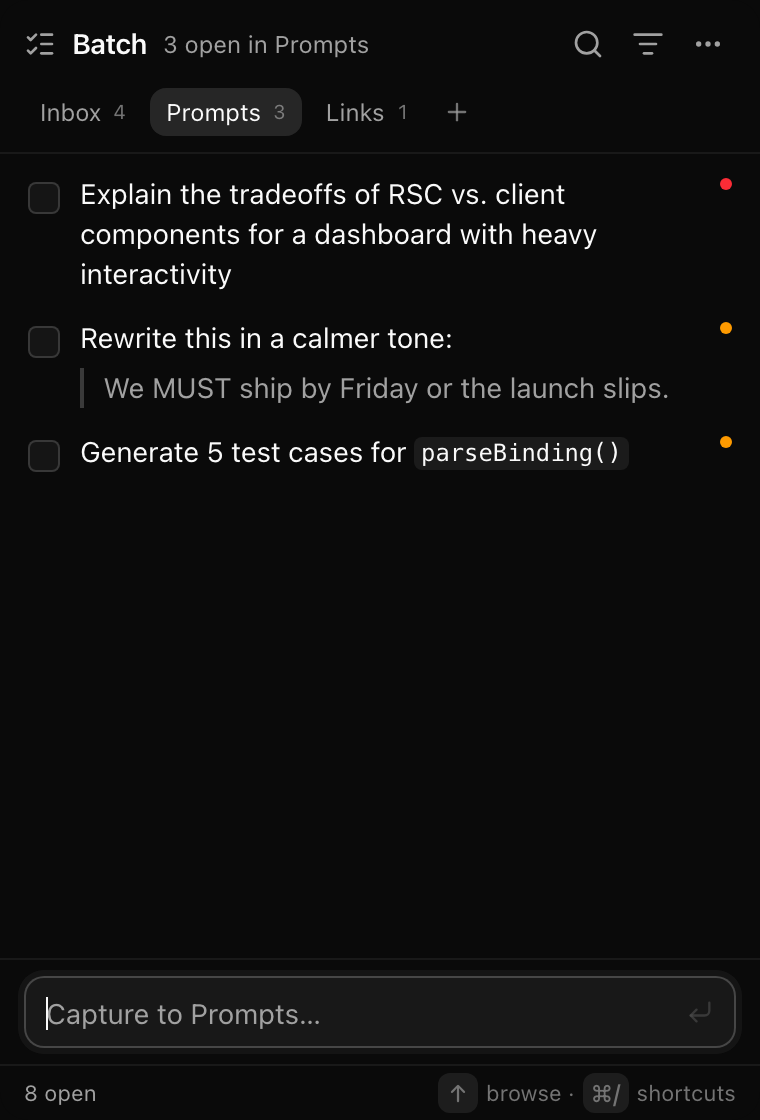
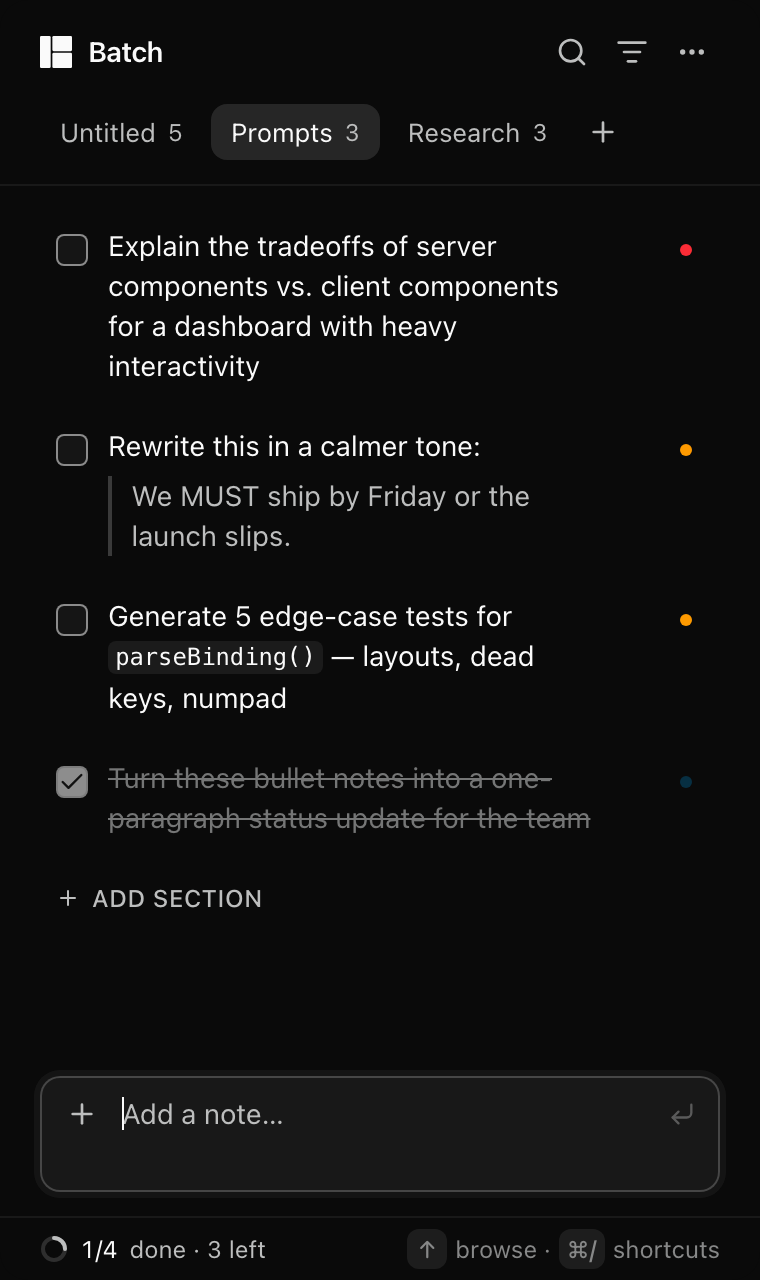
docs: current app screenshots, realistic sample content, no library name-drops in user-facing text

diff --git a/src/store/persistence.ts b/src/store/persistence.ts
@@ -151,37 +151,33 @@ function tutorialState(): NotesState {
 function seedState(): NotesState {
   const now = Date.now();
   const H = 3_600_000;
+  const png = (name: string, w: number, h: number, dataUrl: string) => ({ id: `seed-${name}`, name, mime: "image/png", thumb: false, width: w, height: h, dataUrl });
[2 lines of base64/hex data omitted]
   return {
     version: 2,
     sections: [
       { id: INBOX_ID, name: "Untitled", createdAt: 0 },
       { id: "prompts", name: "Prompts", createdAt: 1 },
-      { id: "links", name: "Links", createdAt: 2 },
+      { id: "research", name: "Research", createdAt: 2 },
     ],
     notes: [
-      { id: "h1", sectionId: INBOX_ID, text: "Today", priority: "medium", done: false, createdAt: now - 31 * H, kind: "heading" },
-      { id: "s1", sectionId: INBOX_ID, text: "Ship the design review", priority: "high", done: false, createdAt: now - 30 * H },
-      { id: "s2", sectionId: INBOX_ID, text: "Ask Claude to **summarise the thread** and pull out action items", priority: "medium", done: false, createdAt: now - 26 * H },
-      { id: "s3", sectionId: INBOX_ID, text: "https://ui.shadcn.com/docs/components/textarea", priority: "low", done: false, createdAt: now - 20 * H },
-      { id: "h2", sectionId: INBOX_ID, text: "Later", priority: "medium", done: false, createdAt: now - 3.5 * H, kind: "heading" },
-      { id: "s4", sectionId: INBOX_ID, text: "Try `bun run app:build` and check the dmg step", priority: "medium", done: false, createdAt: now - 3 * H },
-      { id: "s5", sectionId: INBOX_ID, text: "Renew passport", priority: "high", done: true, createdAt: now - 50 * H, completedAt: now - 2 * H },
-      { id: "s6", sectionId: INBOX_ID, text: "Book dentist", priority: "low", done: true, createdAt: now - 60 * H, completedAt: now - 40 * H },
-      { id: "p1", sectionId: "prompts", text: "Explain the tradeoffs of RSC vs. client components for a dashboard with heavy interactivity", priority: "high", done: false, createdAt: now - 10 * H },
+      { id: "h-today", sectionId: INBOX_ID, text: "Today", priority: "medium", done: false, createdAt: now - 40 * H, kind: "heading" },
+      { id: "u1", sectionId: INBOX_ID, text: "Draft the release notes for 1.1 — mention the new export and the side-panel mode", priority: "high", done: false, createdAt: now - 39 * H },
+      { id: "u2", sectionId: INBOX_ID, text: "Reply to Sam about the API rate limits", priority: "medium", done: true, createdAt: now - 38 * H, completedAt: now - 2 * H },
+      { id: "u3", sectionId: INBOX_ID, text: "Ask Claude to **summarise the thread** and pull out the action items", priority: "medium", done: false, createdAt: now - 30 * H },
+      { id: "h-later", sectionId: INBOX_ID, text: "Later", priority: "medium", done: false, createdAt: now - 20 * H, kind: "heading" },
+      { id: "u4", sectionId: INBOX_ID, text: "Compare Postgres vs. SQLite for the sync layer — write up pros/cons", priority: "low", done: false, createdAt: now - 19 * H },
+      { id: "u5", sectionId: INBOX_ID, text: "Try `bun run dist:mac` on the Intel machine", priority: "medium", done: false, createdAt: now - 3 * H },
+      { id: "u6", sectionId: INBOX_ID, text: "Onboarding card needs more spacing — see the two screenshots", priority: "medium", done: false, createdAt: now - 1 * H, attachments: [png("before.png", 64, 48, blue), png("after.png", 48, 64, amber)] },
+      { id: "p1", sectionId: "prompts", text: "Explain the tradeoffs of server components vs. client components for a dashboard with heavy interactivity", priority: "high", done: false, createdAt: now - 10 * H },
       { id: "p2", sectionId: "prompts", text: "Rewrite this in a calmer tone:\n\n> We MUST ship by Friday or the launch slips.", priority: "medium", done: false, createdAt: now - 9 * H },
-      { id: "p3", sectionId: "prompts", text: "Generate 5 test cases for `parseBinding()`", priority: "medium", done: false, createdAt: now - 8 * H },
-      { id: "l1", sectionId: "links", text: "https://tauri.app/plugin/global-shortcut/", priority: "medium", done: false, createdAt: now - 5 * H },
-      {
-        id: "s7", sectionId: INBOX_ID, text: "Card needs spacing — see the two screenshots", priority: "medium", done: false, createdAt: now - 1 * H,
-        attachments: [
[2 lines of base64/hex data omitted]
-        ],
-      },
-      {
-        id: "s8", sectionId: INBOX_ID, text: "", priority: "low", done: false, createdAt: now - 0.5 * H,
[1 lines of base64/hex data omitted]
-      },
+      { id: "p3", sectionId: "prompts", text: "Generate 5 edge-case tests for `parseBinding()` — layouts, dead keys, numpad", priority: "medium", done: false, createdAt: now - 8 * H },
+      { id: "p4", sectionId: "prompts", text: "Turn these bullet notes into a one-paragraph status update for the team", priority: "low", done: true, createdAt: now - 7 * H, completedAt: now - 5 * H },
+      { id: "r1", sectionId: "research", text: "https://tauri.app/plugin/global-shortcut/", priority: "medium", done: false, createdAt: now - 6 * H },
+      { id: "r2", sectionId: "research", text: "https://developer.apple.com/design/human-interface-guidelines/the-menu-bar", priority: "low", done: false, createdAt: now - 5 * H },
+      { id: "r3", sectionId: "research", text: "Notes from the call: keep the core config declarative; add a TypeScript escape hatch later if needed", priority: "medium", done: false, createdAt: now - 4 * H },
     ],
   };
 }
+

diff --git a/docs/superpowers/specs/2026-08-16-batch-menubar-todo-design.md b/docs/superpowers/specs/2026-08-16-batch-menubar-todo-design.md
@@ -17,12 +17,12 @@ Not a full-window app. No accounts, no sync, no cloud. Local only.
 
 | Option | Pros | Cons |
 | --- | --- | --- |
-| **Tauri v2 + React + Tailwind + shadcn (chosen)** | ~10 MB app, low RAM, native tray + window APIs, shadcn/Tailwind as requested, Rust side is ~100 lines | Needs Rust toolchain (installed via rustup) |
-| Electron + React + Tailwind + shadcn | Zero new toolchains, huge ecosystem (`menubar` pkg) | ~200 MB app, 100–200 MB RAM for a utility that sits in the menu bar all day |
-| Native SwiftUI + MenuBarExtra | Most native, WidgetKit possible later | User explicitly asked for shadcn + Tailwind; those are web-only |
+| **Tauri v2 + React + Tailwind + the UI kit (chosen)** | ~10 MB app, low RAM, native tray + window APIs, the UI kit/Tailwind as requested, Rust side is ~100 lines | Needs Rust toolchain (installed via rustup) |
+| Electron + React + Tailwind + the UI kit | Zero new toolchains, huge ecosystem (`menubar` pkg) | ~200 MB app, 100–200 MB RAM for a utility that sits in the menu bar all day |
+| Native SwiftUI + MenuBarExtra | Most native, WidgetKit possible later | User explicitly asked for Tailwind + a Radix-based UI kit; those are web-only |
 
 Tauri wins on product fit (lightweight, always-resident utility) while still
-letting the UI be built with shadcn + Tailwind exactly as asked. The "widget"
+letting the UI be built with Tailwind + a Radix-based UI kit exactly as asked. The "widget"
 idea (WidgetKit) is out of reach for both Tauri and Electron and is deferred.
 
 ## Architecture
@@ -37,7 +37,7 @@ idea (WidgetKit) is out of reach for both Tauri and Electron and is deferred.
 │        │ tauri (Rust)              │ vibrancy      │ │
 │        │  • tray + placement       │  ┌──────────┐ │ │
 │        │  • global shortcut        │  │ React UI │ │ │
-│        │  • hide on blur (unless   │  │ shadcn + │ │ │
+│        │  • hide on blur (unless   │  │ the UI kit + │ │ │
 │        │    pinned)                │  │ Tailwind │ │ │
 │        │  • Accessory activation   │  └────┬─────┘ │ │
 │        │    (no Dock icon)         │       │ store │ │
@@ -72,7 +72,7 @@ idea (WidgetKit) is out of reach for both Tauri and Electron and is deferred.
 - `store/useTodos.ts` — React hook wrapping the reducer + `@tauri-apps/plugin-store`
   load/save (debounced). Falls back to `localStorage` when not running inside
   Tauri so the UI can be developed/tested in a plain browser.
-- Components (shadcn): `button`, `input`, `checkbox`, `badge`,
+- Components (the UI kit): `button`, `input`, `checkbox`, `badge`,
   `dropdown-menu`, `scroll-area`, `tooltip`, `toggle-group`, `separator`.
 - `App.tsx` — layout: header (drag region, pin toggle, overflow menu),
   capture input + priority segmented control, sectioned list, Done section.
@@ -103,7 +103,7 @@ Item interactions: checkbox toggles done; click the coloured priority dot to
 cycle High → Medium → Low; double-click text to edit inline (Enter saves, Esc
 cancels); hover shows ×. Empty state on first launch: one line of guidance.
 
-Priority colours: High = red-ish, Medium = amber, Low = slate/blue. Use shadcn
+Priority colours: High = red-ish, Medium = amber, Low = slate/blue. Use the UI kit
 tokens for everything else so light/dark follow the system.
 
 Keyboard: `Enter` add · `⌘1/2/3` set priority for the next item · `Esc` clear

diff --git a/README.md b/README.md
@@ -14,12 +14,12 @@ Notes are Markdown, live in **folders**, can be **merged**, **copied as a list**
 is **customisable**. Your notes are one **local JSON file**. No account, no sync,
 no tracking, nothing phones home.
 
-Built with **Tauri v2** (Rust shell) + **React** + **Tailwind v4** + **shadcn/ui**.
+Built with **Tauri v2** (Rust) + **React** + **Tailwind CSS**.
 
 <p>
-  <img src="docs/screenshots/inbox-light.png" width="240" alt="Inbox, light">
-  <img src="docs/screenshots/prompts-dark.png" width="240" alt="Prompts section, dark">
-  <img src="docs/screenshots/search-filters.png" width="240" alt="Search across sections with filters">
+  <img src="docs/screenshots/untitled-light.png" width="240" alt="A folder with sections, light mode">
+  <img src="docs/screenshots/prompts-dark.png" width="240" alt="Prompts folder, dark mode">
+  <img src="docs/screenshots/search-filters.png" width="240" alt="Search across folders with filters">
 </p>
 
 ## Install (download)
@@ -149,7 +149,7 @@ src/
   components/           Header, SectionTabs, CaptureBox, NoteList/NoteRow, Markdown,
                         SearchAndFilters, Footer, SettingsPanel, ShortcutRecorder,
                         HelpSheet, AccessibilityBanner
-  components/ui/        shadcn components
+  components/ui/        UI primitives (Radix-based)
   App.tsx               wiring + all keyboard handling
 src-tauri/
   src/lib.rs            tray, hotkey (re-registrable), positioning, hide-on-blur,
